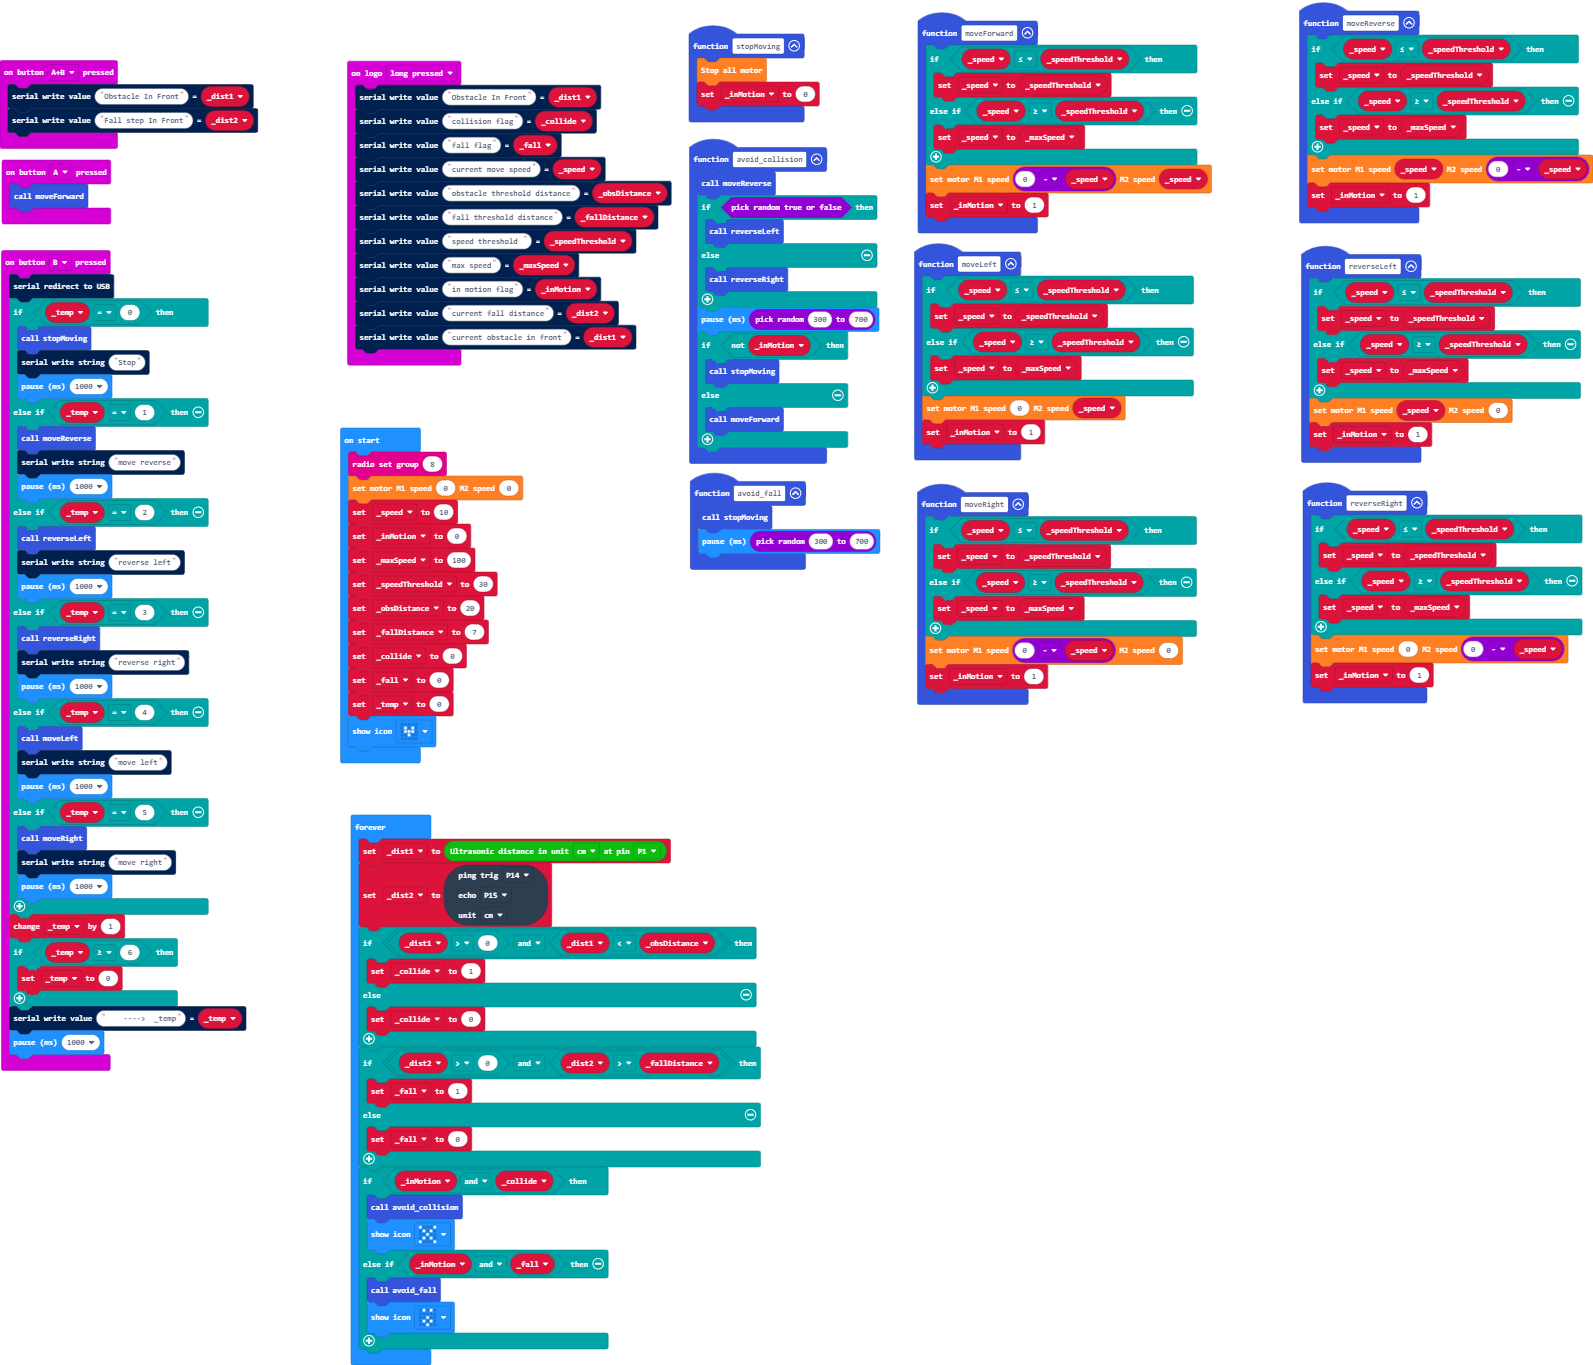
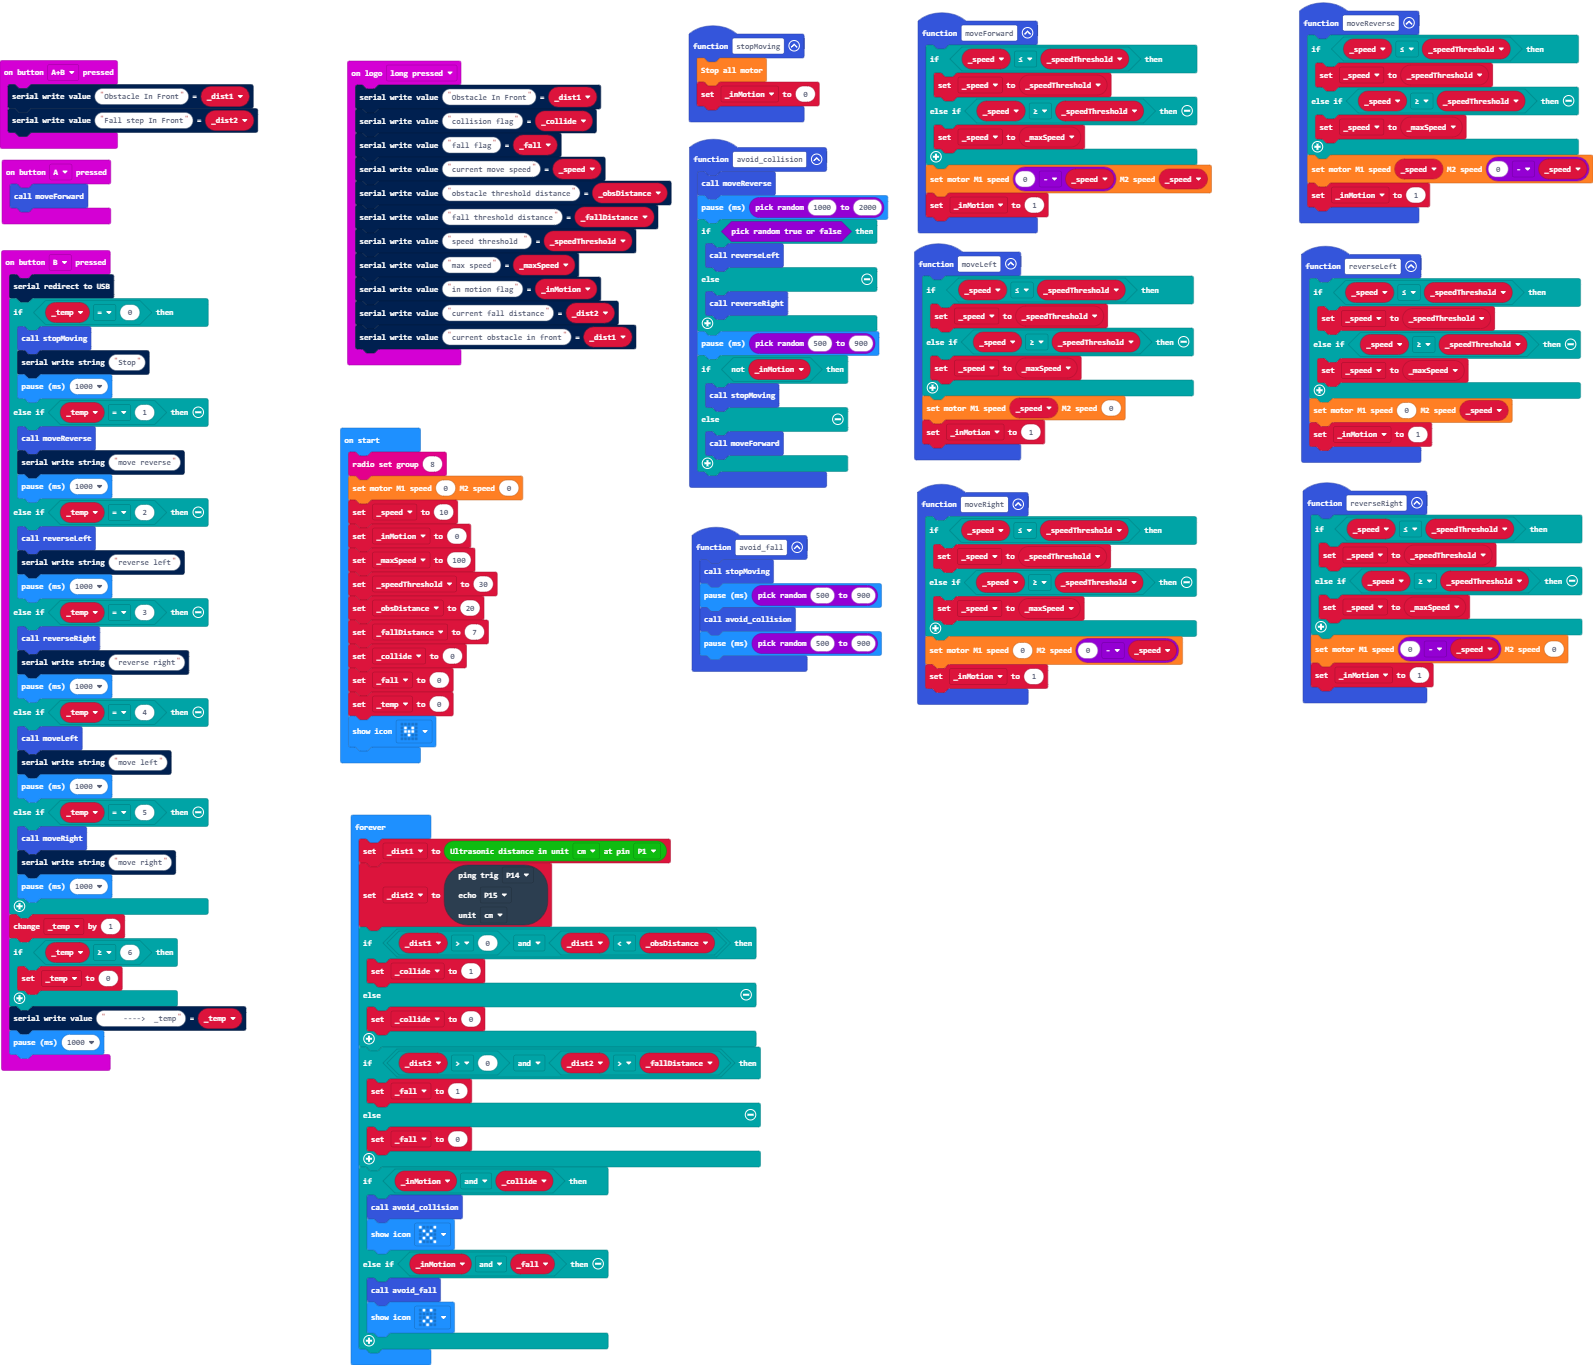
Update main.blocks, main.ts

diff --git a/main.ts b/main.ts
@@ -13,7 +13,7 @@ function moveRight () {
     } else if (_speed >= _speedThreshold) {
         _speed = _maxSpeed
     }
-    wuKong.setAllMotor(0 - _speed, 0)
+    wuKong.setAllMotor(0, 0 - _speed)
     _inMotion = 1
 }
 function moveForward () {
@@ -27,12 +27,13 @@ function moveForward () {
 }
 function avoid_collision () {
     moveReverse()
+    basic.pause(randint(1000, 2000))
     if (Math.randomBoolean()) {
         reverseLeft()
     } else {
         reverseRight()
     }
-    basic.pause(randint(300, 700))
+    basic.pause(randint(500, 900))
     if (!(_inMotion)) {
         stopMoving()
     } else {
@@ -65,7 +66,7 @@ function reverseLeft () {
     } else if (_speed >= _speedThreshold) {
         _speed = _maxSpeed
     }
-    wuKong.setAllMotor(_speed, 0)
+    wuKong.setAllMotor(0, _speed)
     _inMotion = 1
 }
 input.onButtonPressed(Button.AB, function () {
@@ -112,7 +113,7 @@ function reverseRight () {
     } else if (_speed >= _speedThreshold) {
         _speed = _maxSpeed
     }
-    wuKong.setAllMotor(0, 0 - _speed)
+    wuKong.setAllMotor(0 - _speed, 0)
     _inMotion = 1
 }
 function moveLeft () {
@@ -121,12 +122,14 @@ function moveLeft () {
     } else if (_speed >= _speedThreshold) {
         _speed = _maxSpeed
     }
-    wuKong.setAllMotor(0, _speed)
+    wuKong.setAllMotor(_speed, 0)
     _inMotion = 1
 }
 function avoid_fall () {
     stopMoving()
-    basic.pause(randint(300, 700))
+    basic.pause(randint(500, 900))
+    avoid_collision()
+    basic.pause(randint(500, 900))
 }
 let _dist2 = 0
 let _dist1 = 0
